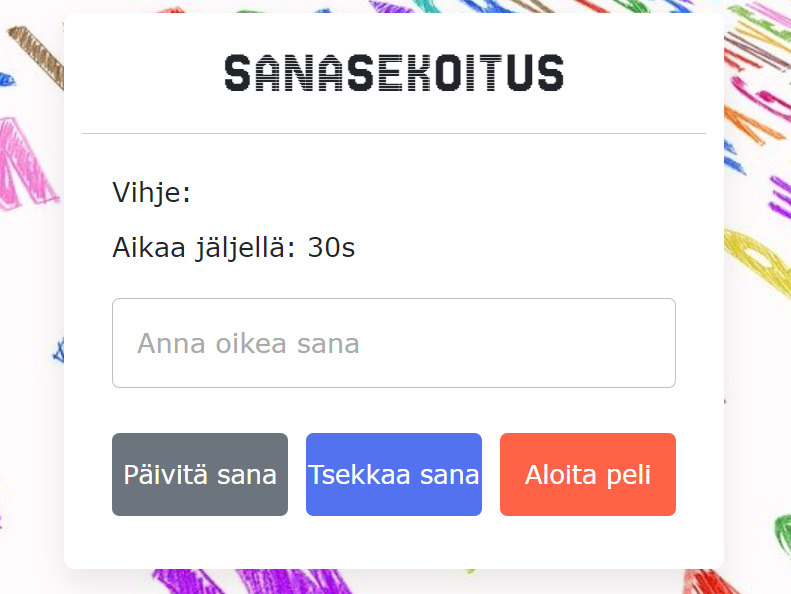
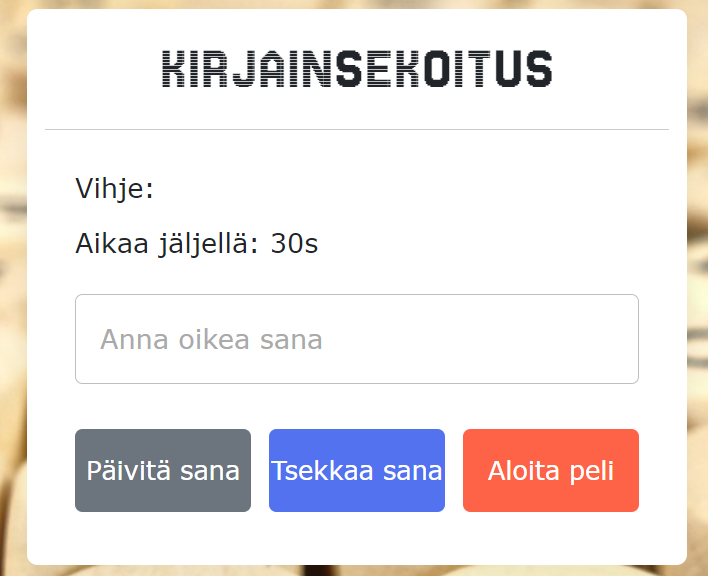
taustakuva vaihdettu

diff --git a/pelit.html b/pelit.html
@@ -102,20 +102,20 @@
       </div>
     </div>
   </div><div class="col">
-    <div class="card">
-      <img src="./img/gamepic.jpeg" class="card-img-top" alt="peli">
+    <div class="card" style="width: 25rem;">
+      <img src="./img/gamepic.jpeg" class="card-img-top" alt="peli" height="223px">
       <div class="card-body">
-        <h5 class="card-title">peli nimi</h5>
+        <h5 class="card-title">tähän riville linkki peliin</h5>
         <p class="card-text">
           Kuvaus
         </p>
       </div>
     </div>
   </div><div class="col">
-    <div class="card">
-      <img src="./img/gamepic.jpeg" class="card-img-top" alt="peli">
+    <div class="card" style="width: 25rem;">
+      <img src="./img/gamepic.jpeg" class="card-img-top" alt="peli" height="223px">
       <div class="card-body">
-        <h5 class="card-title">pelin nimi</h5>
+        <h5 class="card-title">tähän riville linkki peliin</h5>
         <p class="card-text">
           Kuvaus
         </p>

diff --git a/index.html b/index.html
@@ -24,6 +24,8 @@
     <title>Webprojekti</title>
 </head>
 <body>
+
+   <!-- Kuvien lähteet: pixabay.com-->
     <nav class="navbar navbar-dark bg-dark fixed-top">
         <div class="container-fluid">
           <a class="navbar-brand" href="#">Ryhmä 8-webprojekti</a>
@@ -80,6 +82,5 @@
       </div>
     </footer>
     <script src="https://cdn.jsdelivr.net/npm/bootstrap@5.3.3/dist/js/bootstrap.bundle.min.js" integrity="sha384-YvpcrYf0tY3lHB60NNkmXc5s9fDVZLESaAA55NDzOxhy9GkcIdslK1eN7N6jIeHz" crossorigin="anonymous"></script>
-    
 </body>
 </html>

diff --git a/css/pelit.css b/css/pelit.css
@@ -5,7 +5,7 @@
 
 
 body {
-    background-image: url(../img/digital-8280778_1280.jpg);
+    background-image: url(../img/clean-2721102_1280.jpg);
     background-size: cover;
     background-position: center;
     min-height: 85vh;
@@ -17,8 +17,9 @@ p {
     
 }
 
-h2 {
+h1 {
     font-family: "Corben", serif;
+    color: aliceblue;
     
 }
 

diff --git a/peli2.html b/peli2.html
@@ -58,6 +58,7 @@
             </div>
           </div>
         </div> 
+        <!-- Kuvien lähteet: pixabay.com-->
         <footer class="bg-body-tertiary text-center text-lg-start">
           <div class="text-center p-3" style="background-color: rgba(0, 0, 0, 0.05);">
             © 2024 Ryhmä 8 Mikko,Aapo,Aleksi,Heikki, Saku ja Samuli.

diff --git a/js/peli2.js b/js/peli2.js
@@ -56,7 +56,7 @@ const startGame = () => {
     initGame();
 };
 
-const checkWord = () => {
+const checkWord = () => { 
     let userWord = inputField.value.toLowerCase();
     if (!userWord) return alert("Anna sana tarkistettavaksi!");
 

diff --git a/css/kooste.css b/css/kooste.css
@@ -1,5 +1,5 @@
 body {
-    background: url(../img/digital-8280778_1280.jpg) no-repeat;
+    background: url(../img/clean-2721102_1280.jpg) no-repeat;
     background-size: cover;
     background-position: center;
     min-height: 85vh;

diff --git a/css/index.css b/css/index.css
@@ -26,7 +26,7 @@ h2 {
 }
 
 body {
-    background: url(../img/digital-8280778_1280.jpg) no-repeat;
+    background: url(../img/clean-2721102_1280.jpg) no-repeat;
     background-size: cover;
     background-position: center;
 }
